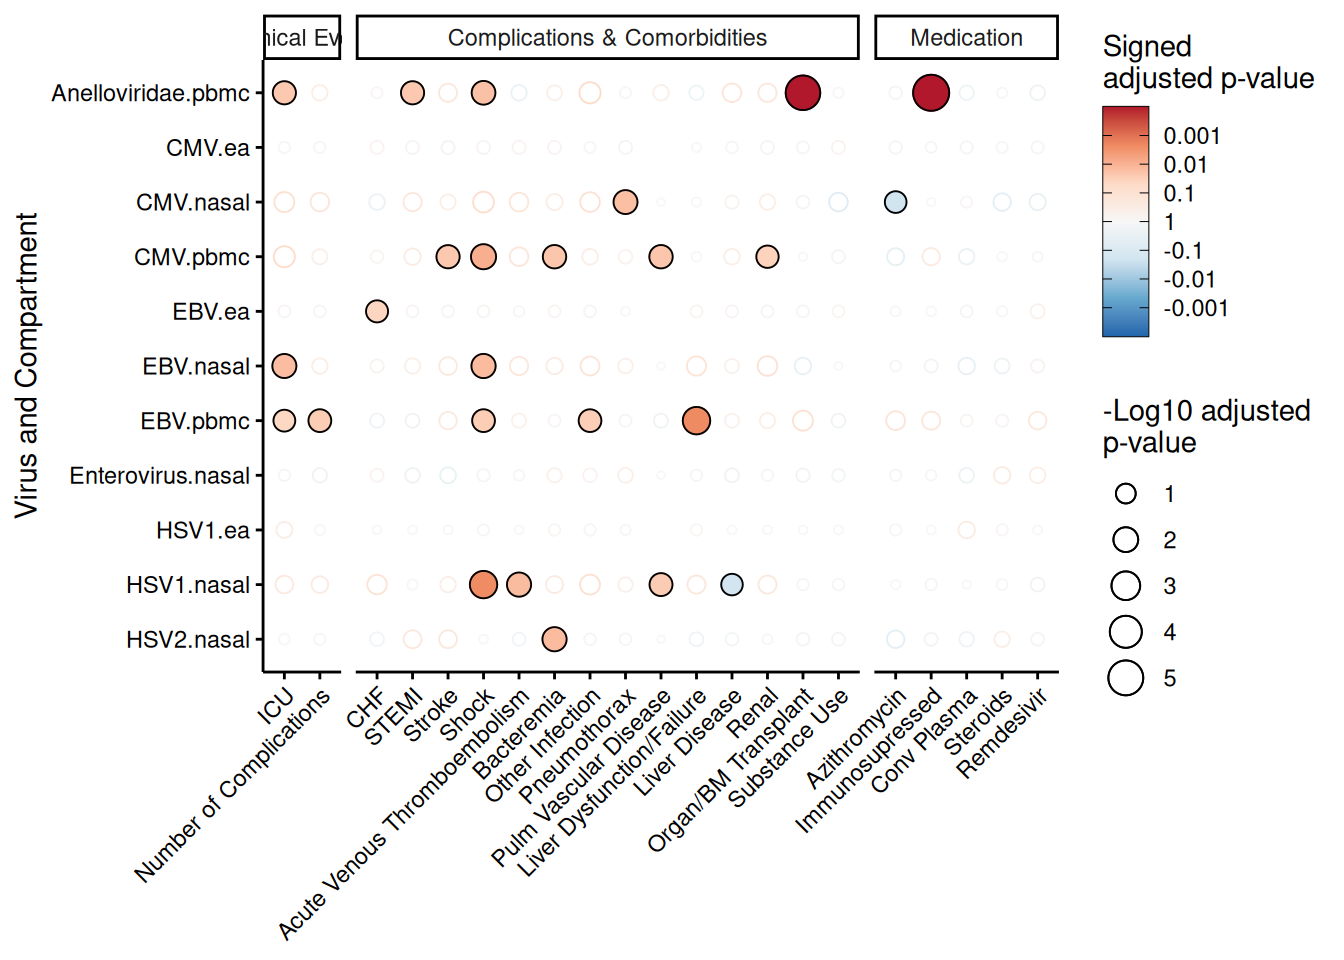
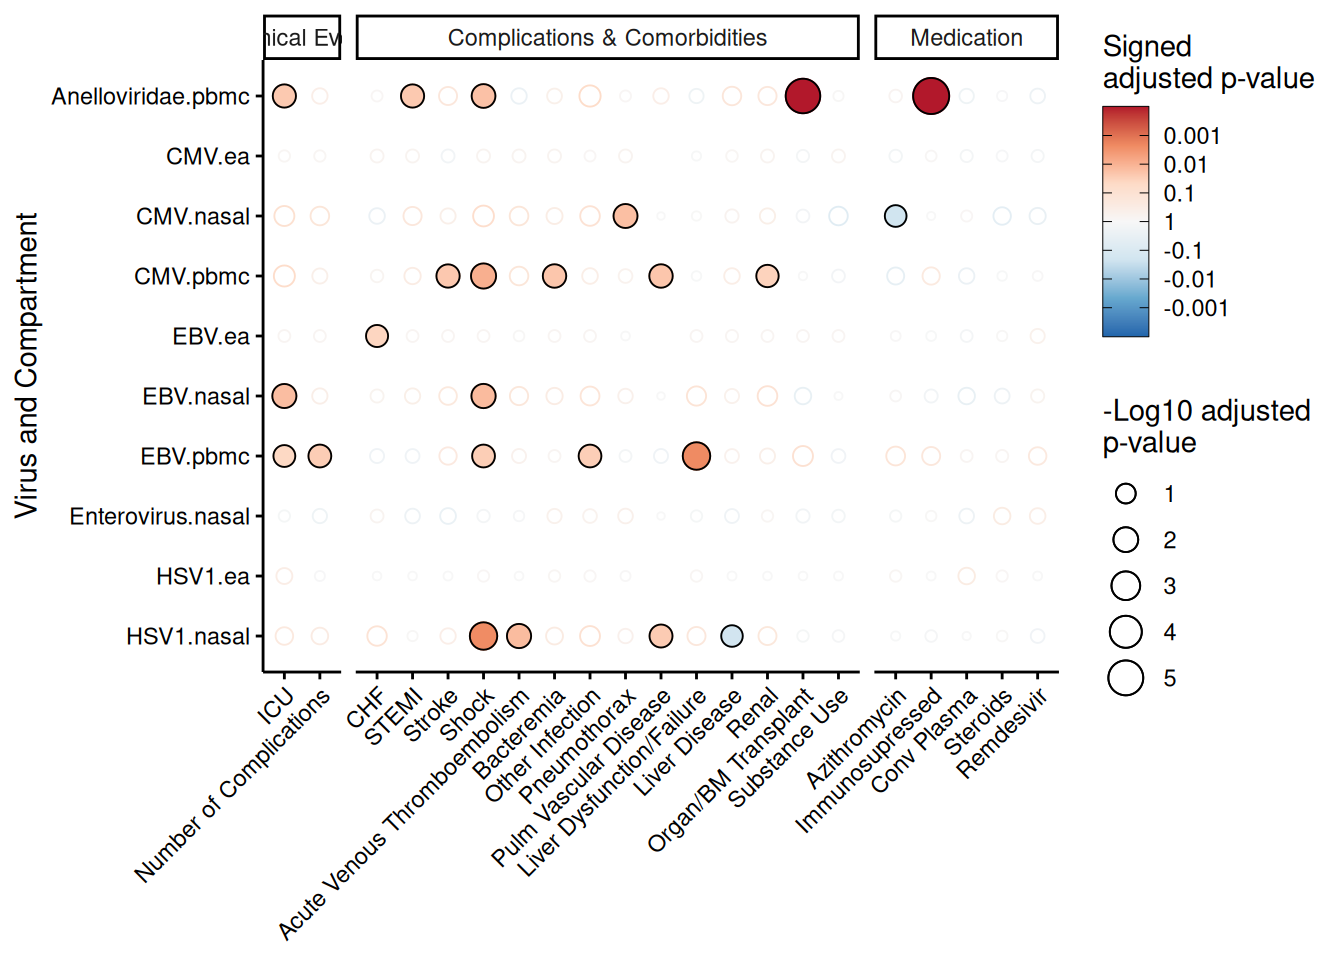
Final Version fo Figure 2 and S6

diff --git a/chronic_viruses_manuscript/Figure2/src/Figure2.html b/chronic_viruses_manuscript/Figure2/src/Figure2.html
@@ -1179,7 +1179,7 @@ the `.groups` argument.</code></pre>
 <span id="cb118-120"><a href="#cb118-120" aria-hidden="true" tabindex="-1"></a><span class="fu">write.csv</span>(out_rates_TG, <span class="fu">paste0</span>(out_dir, <span class="st">"Supplemental_Data_1_part4_3.csv"</span>))</span>
 <span id="cb118-121"><a href="#cb118-121" aria-hidden="true" tabindex="-1"></a><span class="do">## This is also reported in the source data (exact same)</span></span></code><button title="Copy to Clipboard" class="code-copy-button"><i class="bi"></i></button></pre></div>
 </div>
-<div class="cell" width="8.5" height="5">
+<div class="cell" width="8.5" height="4.3">
 <div class="sourceCode cell-code" id="cb119"><pre class="sourceCode r code-with-copy"><code class="sourceCode r"><span id="cb119-1"><a href="#cb119-1" aria-hidden="true" tabindex="-1"></a><span class="fu">library</span>(scales)</span></code><button title="Copy to Clipboard" class="code-copy-button"><i class="bi"></i></button></pre></div>
 <div class="cell-output cell-output-stderr">
 <pre><code>
@@ -1274,11 +1274,11 @@ dbl (6): ...1, npar, AIC, LRT, Pr(Chi), coef_virus
 <span id="cb127-34"><a href="#cb127-34" aria-hidden="true" tabindex="-1"></a>  <span class="fu">filter</span>(feature <span class="sc">!=</span> <span class="st">"ever_ever_esc"</span>) <span class="sc">%&gt;%</span></span>
 <span id="cb127-35"><a href="#cb127-35" aria-hidden="true" tabindex="-1"></a>  <span class="fu">mutate</span>(<span class="at">panel =</span> <span class="fu">ifelse</span>(panel <span class="sc">==</span> <span class="st">"ever"</span>, <span class="st">"Medication"</span>, panel)) <span class="sc">%&gt;%</span></span>
 <span id="cb127-36"><a href="#cb127-36" aria-hidden="true" tabindex="-1"></a>  <span class="fu">ungroup</span>() <span class="sc">%&gt;%</span></span>
-<span id="cb127-37"><a href="#cb127-37" aria-hidden="true" tabindex="-1"></a>  <span class="fu">filter</span>(<span class="sc">!</span><span class="fu">grepl</span>(<span class="st">"Beta"</span>, virus))</span></code><button title="Copy to Clipboard" class="code-copy-button"><i class="bi"></i></button></pre></div>
+<span id="cb127-37"><a href="#cb127-37" aria-hidden="true" tabindex="-1"></a>  <span class="fu">filter</span>(<span class="sc">!</span><span class="fu">grepl</span>(<span class="st">"Beta"</span>, virus)) </span></code><button title="Copy to Clipboard" class="code-copy-button"><i class="bi"></i></button></pre></div>
 <div class="cell-output cell-output-stderr">
 <pre><code>Joining with `by = join_by(feature)`</code></pre>
 </div>
-<div class="sourceCode cell-code" id="cb129"><pre class="sourceCode r code-with-copy"><code class="sourceCode r"><span id="cb129-1"><a href="#cb129-1" aria-hidden="true" tabindex="-1"></a>gg2C <span class="ot">&lt;-</span> tmp <span class="sc">%&gt;%</span></span>
+<div class="sourceCode cell-code" id="cb129"><pre class="sourceCode r code-with-copy"><code class="sourceCode r"><span id="cb129-1"><a href="#cb129-1" aria-hidden="true" tabindex="-1"></a>gg2C <span class="ot">&lt;-</span> tmp <span class="sc">%&gt;%</span> <span class="fu">ungroup</span>() <span class="sc">%&gt;%</span> <span class="fu">filter</span>(virus <span class="sc">!=</span> <span class="st">"HSV2.nasal"</span>) <span class="sc">%&gt;%</span></span>
 <span id="cb129-2"><a href="#cb129-2" aria-hidden="true" tabindex="-1"></a>  <span class="fu">ggplot</span>(<span class="fu">aes</span>(<span class="at">x=</span><span class="fu">interaction</span>(Label), <span class="at">y=</span>virus)) <span class="sc">+</span></span>
 <span id="cb129-3"><a href="#cb129-3" aria-hidden="true" tabindex="-1"></a>  <span class="fu">geom_point</span>(<span class="fu">aes</span>(<span class="at">size =</span> log10p, <span class="at">color =</span> signedlog10p), <span class="at">shape =</span> <span class="dv">21</span>, <span class="at">fill =</span> <span class="cn">NA</span>) <span class="sc">+</span></span>
 <span id="cb129-4"><a href="#cb129-4" aria-hidden="true" tabindex="-1"></a>  <span class="fu">geom_point</span>(<span class="at">data =</span> . <span class="sc">%&gt;%</span> <span class="fu">filter</span>(<span class="st">`</span><span class="at">Pr(Chi)</span><span class="st">`</span> <span class="sc">&lt;=</span> <span class="fl">0.05</span>),</span>
@@ -1286,7 +1286,7 @@ dbl (6): ...1, npar, AIC, LRT, Pr(Chi), coef_virus
 <span id="cb129-6"><a href="#cb129-6" aria-hidden="true" tabindex="-1"></a>  <span class="fu">theme_classic</span>() <span class="sc">+</span></span>
 <span id="cb129-7"><a href="#cb129-7" aria-hidden="true" tabindex="-1"></a>  <span class="fu">ylab</span>(<span class="st">"Virus and Compartment"</span>) <span class="sc">+</span></span>
 <span id="cb129-8"><a href="#cb129-8" aria-hidden="true" tabindex="-1"></a>  <span class="fu">facet_grid</span>(<span class="sc">~</span>panel,<span class="at">scales =</span> <span class="st">"free_x"</span>, <span class="at">space =</span> <span class="st">"free_x"</span>) <span class="sc">+</span></span>
-<span id="cb129-9"><a href="#cb129-9" aria-hidden="true" tabindex="-1"></a>  <span class="fu">scale_y_discrete</span>(<span class="at">limits =</span> <span class="fu">rev</span>(<span class="fu">unique</span>(tmp<span class="sc">$</span>virus)[<span class="fu">order</span>(<span class="fu">unique</span>(tmp<span class="sc">$</span>virus))])) <span class="sc">+</span></span>
+<span id="cb129-9"><a href="#cb129-9" aria-hidden="true" tabindex="-1"></a>  <span class="fu">scale_y_discrete</span>(<span class="at">limits =</span> <span class="fu">rev</span>(<span class="fu">unique</span>(tmp<span class="sc">$</span>virus)[<span class="fu">order</span>(<span class="fu">unique</span>(tmp<span class="sc">$</span>virus))])[<span class="sc">-</span><span class="dv">1</span>]) <span class="sc">+</span></span>
 <span id="cb129-10"><a href="#cb129-10" aria-hidden="true" tabindex="-1"></a>  <span class="fu">theme</span>(<span class="at">axis.text.x =</span> <span class="fu">element_text</span>(<span class="at">angle =</span> <span class="dv">45</span>, <span class="at">vjust =</span> <span class="dv">1</span>, <span class="at">hjust=</span><span class="dv">1</span>)) <span class="sc">+</span></span>
 <span id="cb129-11"><a href="#cb129-11" aria-hidden="true" tabindex="-1"></a>  <span class="fu">scale_color_distiller</span>(<span class="at">palette =</span> <span class="st">"RdBu"</span>, <span class="at">limits =</span> <span class="fu">c</span>(<span class="sc">-</span><span class="dv">4</span>,<span class="dv">4</span>), <span class="at">oob=</span>squish,</span>
 <span id="cb129-12"><a href="#cb129-12" aria-hidden="true" tabindex="-1"></a>                        <span class="at">breaks =</span> <span class="fu">c</span>(<span class="sc">-</span><span class="dv">3</span>, <span class="sc">-</span><span class="dv">2</span>, <span class="sc">-</span><span class="dv">1</span>, <span class="dv">0</span>, <span class="dv">1</span>, <span class="dv">2</span>, <span class="dv">3</span>),</span>
@@ -1310,7 +1310,7 @@ dbl (6): ...1, npar, AIC, LRT, Pr(Chi), coef_virus
 </figure>
 </div>
 </div>
-<div class="sourceCode cell-code" id="cb130"><pre class="sourceCode r code-with-copy"><code class="sourceCode r"><span id="cb130-1"><a href="#cb130-1" aria-hidden="true" tabindex="-1"></a><span class="fu">ggsave</span>(<span class="fu">paste0</span>(out_dir, <span class="st">"Figure2C.pdf"</span>), <span class="at">width =</span> <span class="fl">8.5</span>, <span class="at">height =</span> <span class="fl">4.5</span>)</span>
+<div class="sourceCode cell-code" id="cb130"><pre class="sourceCode r code-with-copy"><code class="sourceCode r"><span id="cb130-1"><a href="#cb130-1" aria-hidden="true" tabindex="-1"></a><span class="fu">ggsave</span>(<span class="fu">paste0</span>(out_dir, <span class="st">"Figure2C.pdf"</span>), <span class="at">width =</span> <span class="fl">8.5</span>, <span class="at">height =</span> <span class="fl">4.3</span>)</span>
 <span id="cb130-2"><a href="#cb130-2" aria-hidden="true" tabindex="-1"></a></span>
 <span id="cb130-3"><a href="#cb130-3" aria-hidden="true" tabindex="-1"></a><span class="fu">write_csv</span>(gg2C<span class="sc">$</span>data, <span class="fu">paste0</span>(out_dir, <span class="st">"source_data_Figure2C.csv"</span>))</span></code><button title="Copy to Clipboard" class="code-copy-button"><i class="bi"></i></button></pre></div>
 </div>
